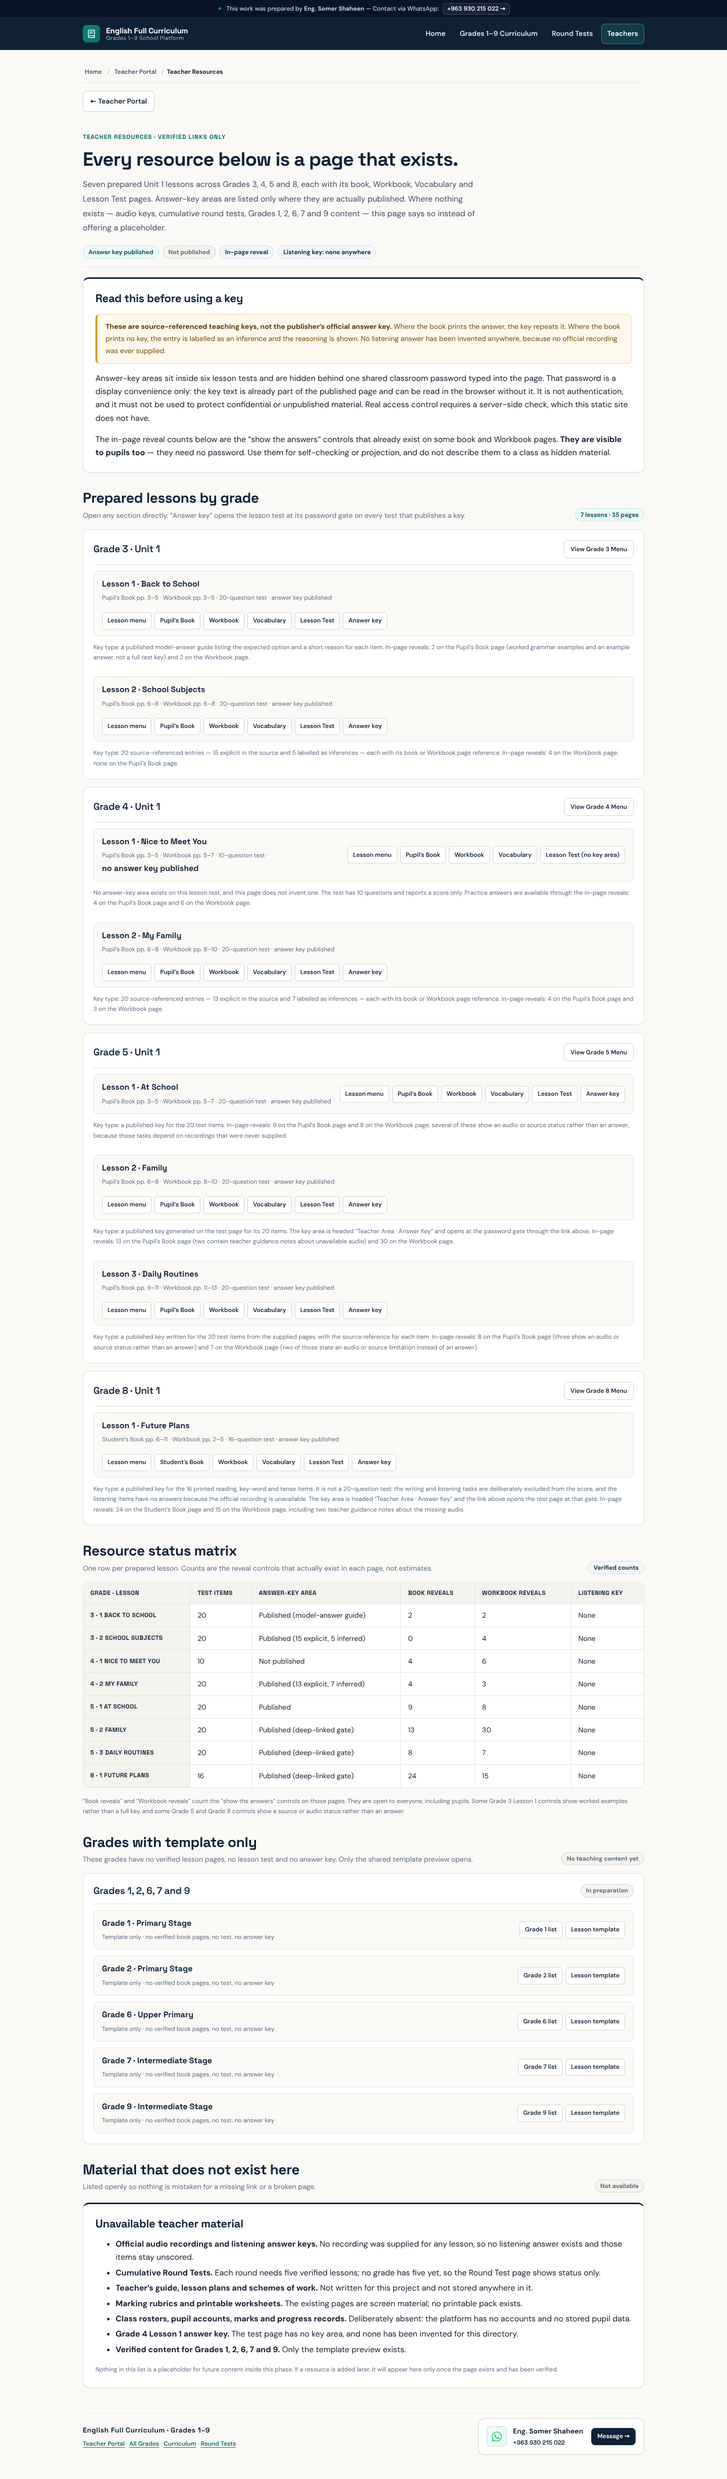
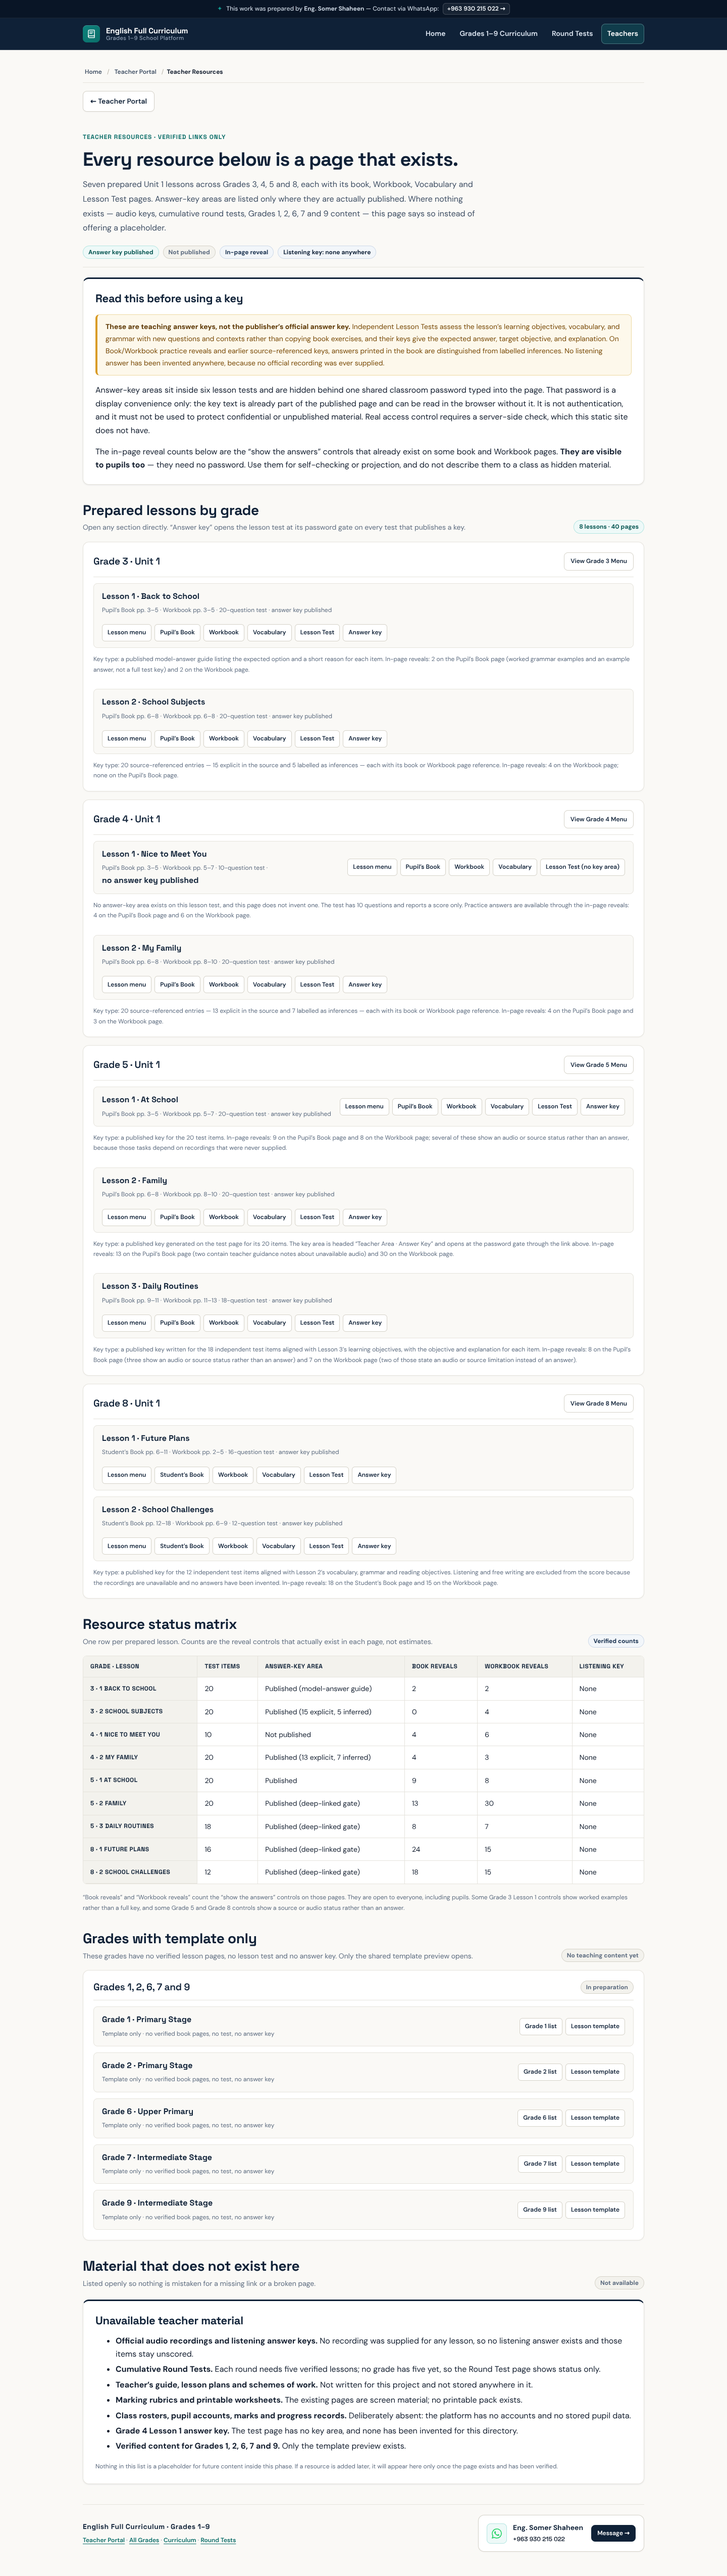
Fix CI: align teacher-portal browser test with 9 published lessons
- tests/teacher-portal.browser.mjs: matrix rows 8->9, listening-key-none
  count 8->9, anchoredKeys adds grade8-unit1-lesson2, add explicit
  assertion for row '8 · 2 School Challenges' (12 items, published key,
  no listening key), update pass message to 'Nine rows'.
- grade8-unit1-lesson2-test.html: add data-answer-toggle='class' so the
  teacher answer key stays hidden until unlocked (matching Lesson 1);
  wrap quiz options in role='radiogroup' with aria-labelledby for the
  accessibility radio-group ancestor check; load lesson-navigation.js
  and lesson-content-navigation.js so .content-nav.is-quiz-nav is built
  for the answered-state regression.
- Update teacher-portal evidence screenshots/report.json regenerated by
  the browser suite run.

diff --git a/grade8-unit1-lesson2-test.html b/grade8-unit1-lesson2-test.html
@@ -8,7 +8,7 @@
 <script src="platform-shell.js" defer></script>
 <script src="lesson-accessibility.js" defer></script>
 </head>
-<body data-lesson-nav="grade8-unit1-lesson2" data-nav-page="test">
+<body data-lesson-nav="grade8-unit1-lesson2" data-nav-page="test" data-answer-toggle="class">
 <div class="engineer-contact-banner" dir="ltr" role="complementary" aria-label="Contact information">
 <span class="engineer-contact-icon" aria-hidden="true">✦</span><span class="engineer-contact-label">Eng. Somer Shaheen — WhatsApp:</span><a href="https://wa.me/963930215022" target="_blank" rel="noopener noreferrer" aria-label="Open WhatsApp chat with Eng. Somer Shaheen · +963 930 215 022">+963 930 215 022 →</a>
 </div>
@@ -51,11 +51,15 @@
 const render = document.getElementById('quiz');
   qs.forEach(function (q, i) {
     const block = document.createElement('div');
-    block.className = 'qblock';
+    block.className = 'question';
     block.setAttribute('data-q', i);
     const h = document.createElement('h3');
+    h.id = 'q' + i + '-label';
     h.textContent = 'Q' + (i + 1) + '. ' + q[0];
     block.appendChild(h);
+    const group = document.createElement('div');
+    group.setAttribute('role', 'radiogroup');
+    group.setAttribute('aria-labelledby', h.id);
     const opts = q[1];
     opts.forEach(function (o, j) {
       const lab = document.createElement('label');
@@ -65,8 +69,9 @@ const render = document.getElementById('quiz');
       r.value = j;
       lab.appendChild(r);
       lab.appendChild(document.createTextNode(' ' + o));
-      block.appendChild(lab);
+      group.appendChild(lab);
     });
+    block.appendChild(group);
     const fb = document.createElement('div');
     fb.className = 'feedback';
     fb.id = 'fb' + i;
@@ -109,5 +114,7 @@ const render = document.getElementById('quiz');
 </script>
 <div class="footer"><a href="grade8-unit1-lesson2.html">← Lesson 2 menu</a></div>
 </main>
+<script src="lesson-navigation.js" defer></script>
+<script src="lesson-content-navigation.js" defer></script>
 </body>
 </html>
